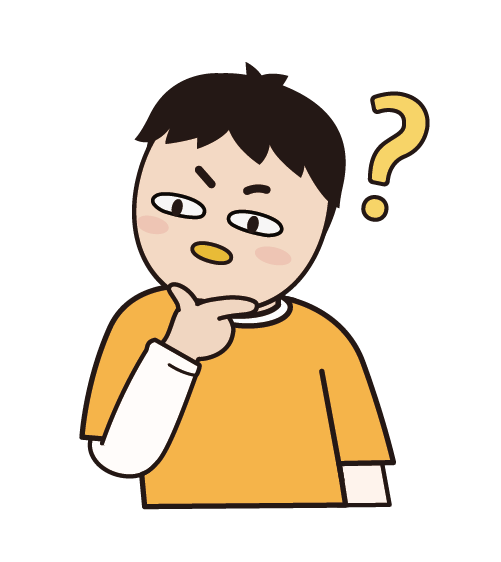
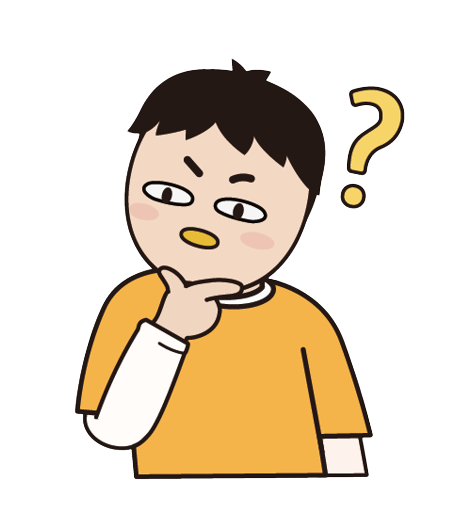
增加一些奇怪的动画；替换图片素材

diff --git a/coder-answers-book/question.html b/coder-answers-book/question.html
@@ -11,9 +11,34 @@
     <style>
       .header {
         transform: rotateX(180deg);
+        animation: header-in 0.8s linear;
+      }
+      .footer {
+        animation: footer-in 0.8s linear;
+      }
+      .desc span {
+        display: block;
+        opacity: 0;
+        transition: opacity 0.3s ease;
       }
       .duck {
         top: calc(70% - 110px);
+      }
+      @keyframes header-in {
+        from {
+          transform: translateY(-100%) rotateX(180deg);
+        }
+        to {
+          transform: translateY(0) rotateX(180deg);
+        }
+      }
+      @keyframes footer-in {
+        from {
+          transform: translateY(100%);
+        }
+        to {
+          transform: translateY(0);
+        }
       }
     </style>
   </head>
@@ -22,8 +47,11 @@
     <img src="./images/cloud.png" alt="" class="header">
     <img src="./images/cloud.png" alt="" class="footer">
 
-      <p class="desc">
-        请闭上眼睛<br />想好自己要问的问题<br />点击开始<br />程序员答案之书将会给你答案！
+      <p id="desc" class="desc">
+        <span>请闭上眼睛</span>
+        <span>想好自己要问的问题</span>
+        <span>点击开始</span>
+        <span>程序员答案之书将会给你答案！</span>
       </p>
 
       <img src="./images/duck.png" alt="" class="duck" />
@@ -31,6 +59,16 @@
       <button class="action" onclick="startAsk()">开始解答</button>
 
       <script>
+        window.onload = function () {
+          const desc = document.querySelector('#desc')
+          for (let index = 0; index < desc.childElementCount; index++) {
+            const child = desc.children[index];
+            console.log(child);
+            setTimeout(() => {
+              child.style.opacity = 1
+            }, index * 1000);
+          }
+        }
         function startAsk() {
           location.href = "./answer.html";
         }

diff --git a/coder-answers-book/answer.html b/coder-answers-book/answer.html
@@ -14,17 +14,18 @@
         display: flex;
         align-items: center;
         justify-content: center;
-        width: 80%;
+        width: 70%;
         height: 200px;
-        top: 30%;
+        top: 25%;
         margin: 0;
-        padding: 5px 12px;
+        padding: 10px 30px 10px 35px;
         font-family: serif;
-        font-size: 20px;
+        font-size: 18px;
         left: 50%;
         transform: translateX(-50%);
-        border: 1px dashed #000;
-        border-radius: 4px;
+        background-image: url(./images/border.png);
+        background-repeat: no-repeat;
+        background-size: 100% 100%;
       }
       .ask {
         position: absolute;
@@ -36,12 +37,11 @@
       }
       .decorate {
         position: absolute;
-        width: 100px;
+        width: 110px;
         right: 0;
-        top: 30%;
-        margin-top: 200px;
-        transform: translate(5%, -50%);
-        background-color: #fff;
+        top: 25%;
+        margin-top: 170px;
+        transform: translate(2%, -50%);
         opacity: 0;
       }
       .boy {
@@ -55,8 +55,6 @@
   </head>
   <body>
     <div class="home">
-      <img src="./images/header.png" alt="" class="header" />
-
       <p id="answer" class="answer"></p>
 
       <img id="decorate" src="" alt="" class="decorate" />
